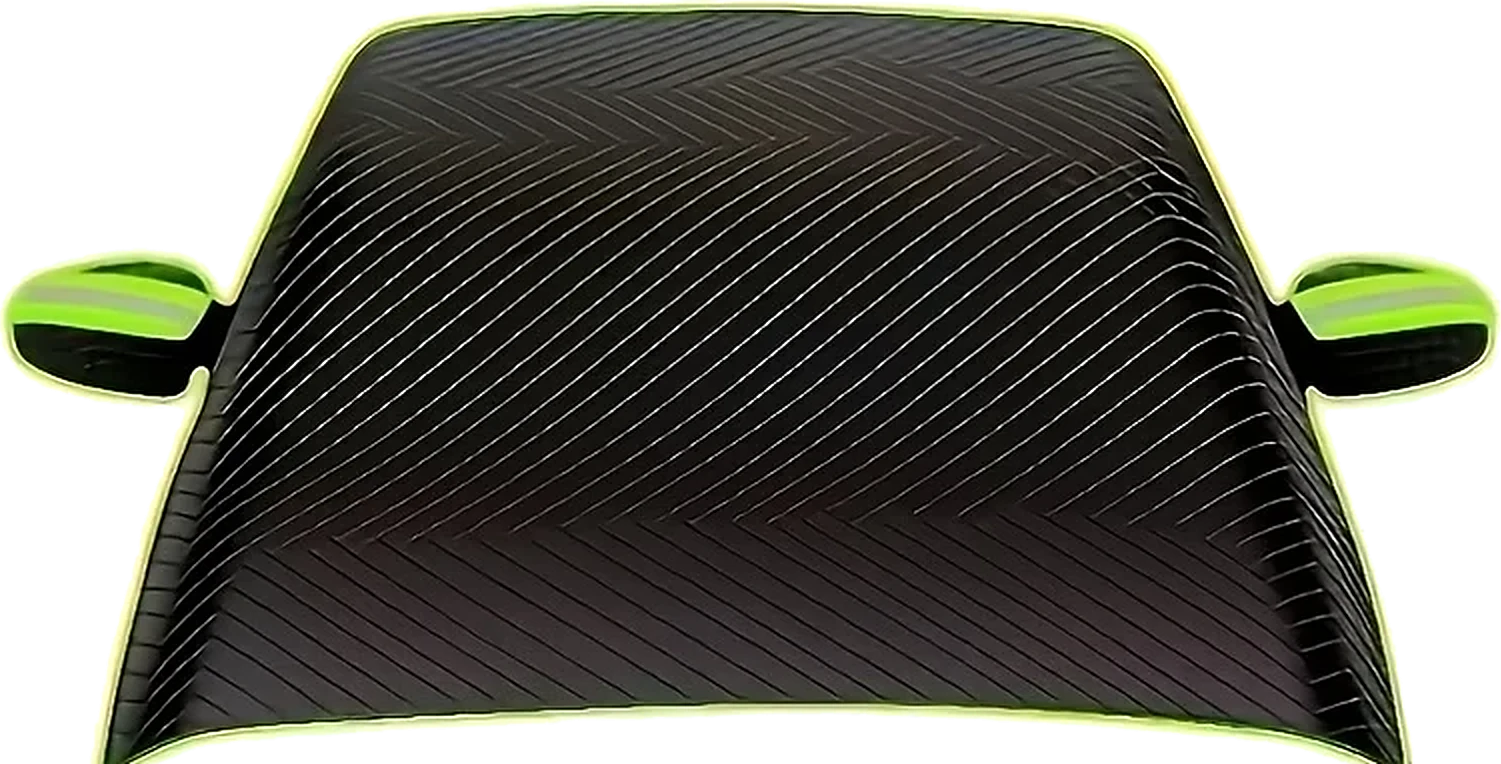
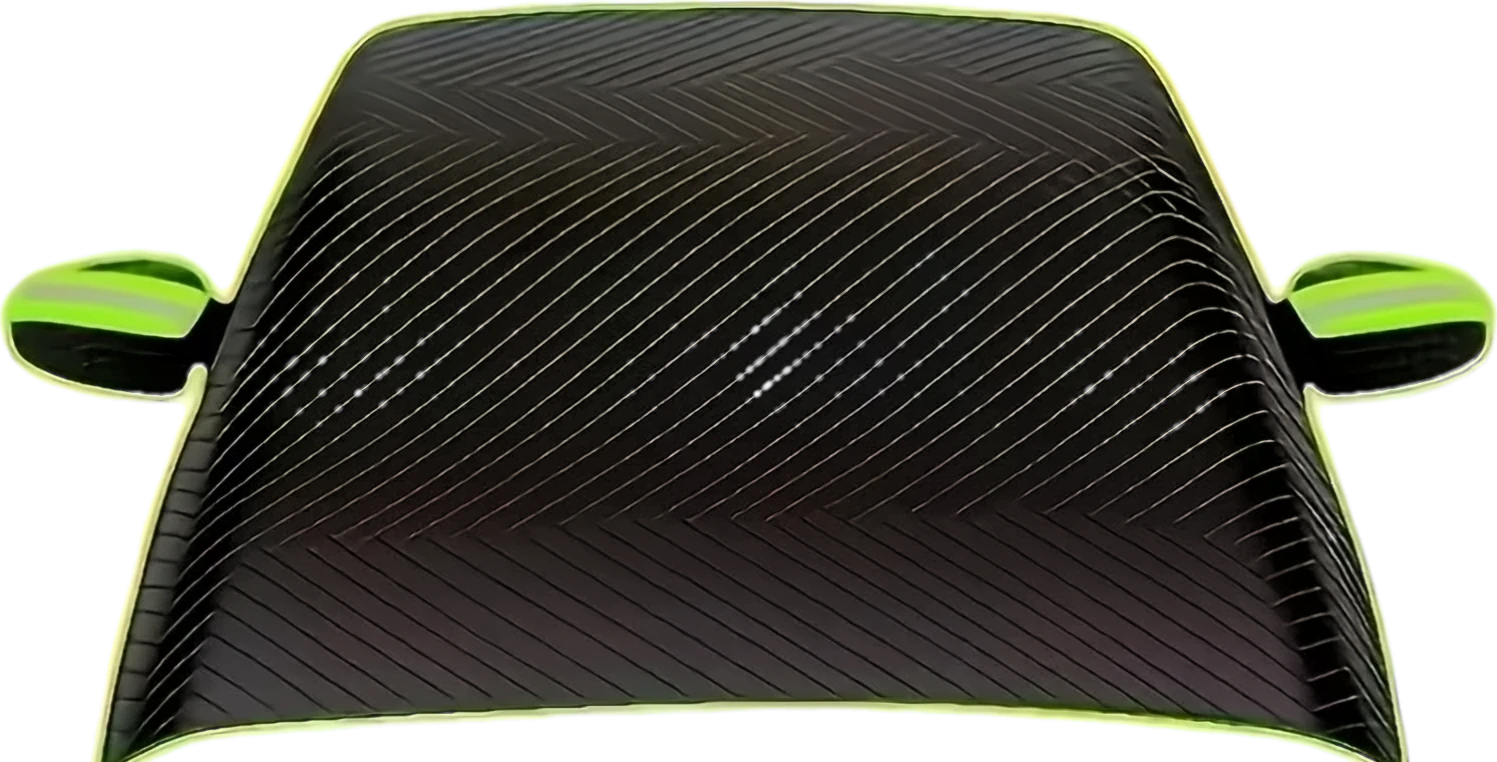
Use AI-upscaled product photos and soften cut-out styling
Claude-Session: https://claude.ai/code/session_01JHHzLHwruDjZFwu9vzAvTR

Changed region(s): [[0.0, 0.0, 0.9833, 1.0], [0.3687, 0.9055, 0.6146, 0.9357], [0.9833, 0.3622, 1.0, 0.4829]]

diff --git a/assets/base.css b/assets/base.css
@@ -480,7 +480,7 @@ p { margin: 0 0 1em; }
 
 .product-float { position: relative; width: min(56vw, 920px); transform-style: preserve-3d; will-change: transform; }
 .product-float__img { position: relative; width: 100%; height: auto;
-  filter: drop-shadow(0 40px 50px rgba(0,0,0,.65)) drop-shadow(0 0 18px rgba(200,255,46,.22));
+  filter: drop-shadow(0 34px 40px rgba(0,0,0,.7)) saturate(.92);
   -webkit-mask-image: linear-gradient(to bottom, #000 92%, transparent); mask-image: linear-gradient(to bottom, #000 92%, transparent); }
 .product-float__glow { position: absolute; left: 8%; right: 8%; bottom: -14%; height: 40%; border-radius: 50%;
   background: radial-gradient(closest-side, rgba(200,255,46,.28), rgba(95,182,255,.12) 55%, transparent); filter: blur(30px); transform: translateZ(-80px); }
@@ -492,7 +492,7 @@ p { margin: 0 0 1em; }
     radial-gradient(circle, rgba(255,255,255,.8) 0 2px, transparent 2.6px) 7px 5px / 33px 29px,
     radial-gradient(circle, rgba(235,245,255,.9) 0 3px, transparent 4px) 13px 11px / 57px 47px,
     linear-gradient(170deg, rgba(240,248,255,.78), rgba(225,238,250,.55) 60%, rgba(225,238,250,.3)); }
-.product-float__shine { background: linear-gradient(105deg, transparent 35%, rgba(255,255,255,.22) 47%, rgba(200,255,46,.12) 50%, transparent 60%) 0 0 / 250% 100% no-repeat; animation: shine 6s var(--ease) infinite; mix-blend-mode: screen; }
+.product-float__shine { background: linear-gradient(105deg, transparent 38%, rgba(255,255,255,.10) 48%, transparent 58%) 0 0 / 250% 100% no-repeat; animation: shine 6s var(--ease) infinite; mix-blend-mode: screen; }
 @keyframes shine { 0% { background-position: 120% 0; } 55%, 100% { background-position: -120% 0; } }
 
 /* callouts sit over the product in the "install" chapter */
